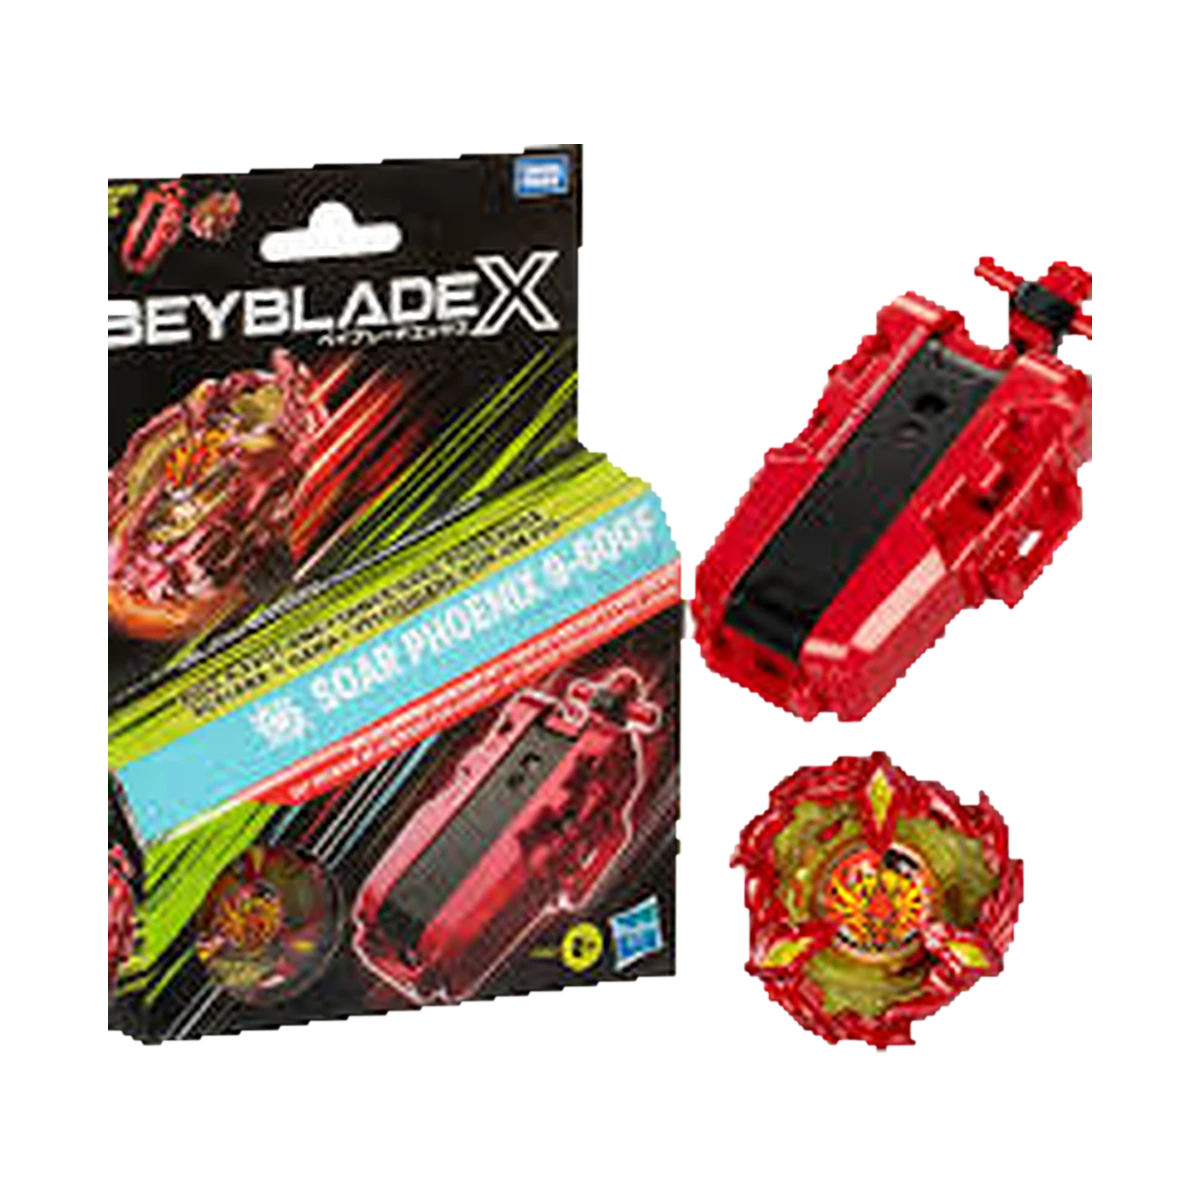
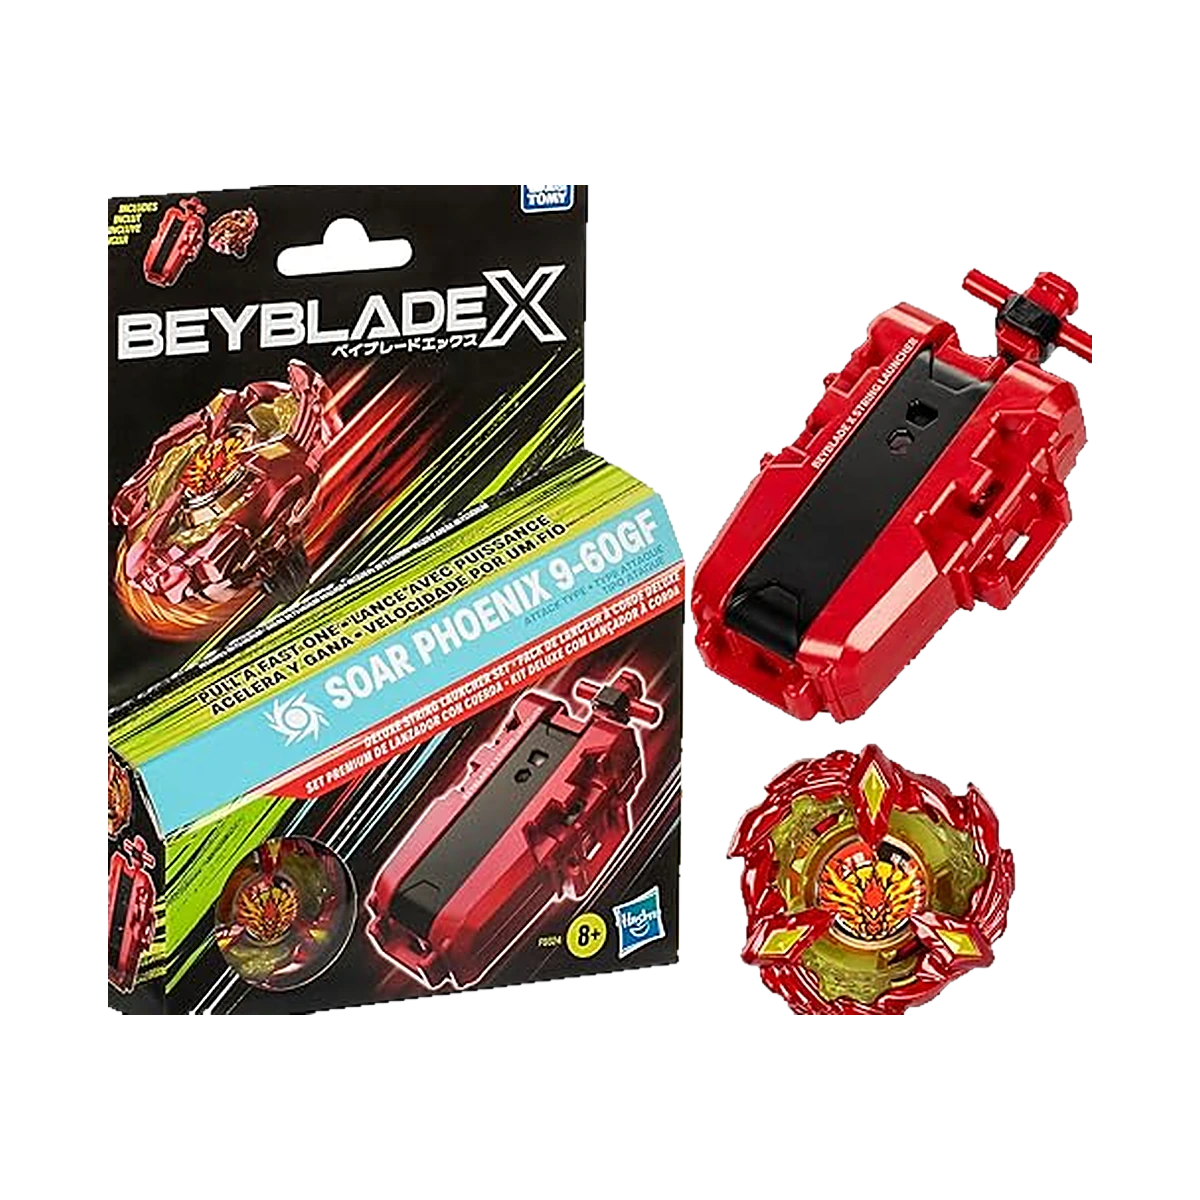
Soar Phoenix lands: 199 on the shelf at 25,90, leading the new arrivals (#60)
* Soar Phoenix lands: 199 on the shelf at 25,90, leading the new arrivals

The owner received 199 Soar Phoenix 9-60GF (red, with its launcher) on
2026-10-08. It stops being an open pre-order and goes on the shelf at
25,90 (was 32,00), tagged as a new release.

- catalog: price 2590, disponibile, availableQuantity 199, tag novita.
- migration 20261008090000 mirrors it into the live database: price,
  stock 199 (only into an empty shelf, with an inventory movement) and
  the novita tag. allow_backorder stays on.
- Homepage: a new release already on the shelf gets its own row,
  "Appena arrivati", instead of sitting under "Pre-ordini aperti" next
  to the release wait.
- Sort "novita": among the new releases, what ships now comes first
  (mock and Supabase providers alike).
- New packshot from the owner (prodotti/phoenixred.jpg): only this
  product's tile and cut-out are regenerated.
- Pinned tests follow: catalogue entry, seed open pre-order count 1 -> 0,
  the Infinity Starter migration price of its day, new-release tags.

* The homepage e2e checks the new arrivals row instead of an empty rest

Every reviewed product now has a named row, so "Tutto il resto" does not
render on the mock catalogue; the tests look for "Appena arrivati".

---------

diff --git a/src/lib/home/product-selection.ts b/src/lib/home/product-selection.ts
@@ -44,6 +44,10 @@ export const BESTSELLER_SLUGS: readonly string[] = [
  * still on pre-order, then what ships right away (single pieces, then bundles, then
  * accessories), then everything else with sold-out pieces last. Every product appears once.
  *
+ * A new release already on the shelf (owner, 2026-10-08: 199 Soar Phoenix landed) gets a row
+ * of its own, "Appena arrivati", between the best sellers and the pre-orders: it ships now, so
+ * it never sits under "Pre-ordini aperti" with the release wait beside it.
+ *
  * When none of the best sellers can be sold the hero falls back to the September order — the
  * new releases, or failing those anything on sale — rather than dealing an empty first screen.
  */
@@ -62,9 +66,12 @@ export function homepagePlan<T extends PlannedProduct>(
   const heroIsBestsellers = best.length > 0;
   const hero = heroIsBestsellers ? best : (releases.length > 0 ? releases : products.filter(onSale)).slice(0, heroLimit);
   const taken = new Set(hero.map((product) => product.slug));
-  // The new releases get a row of their own once the best sellers hold the first screen.
-  const drop = heroIsBestsellers ? releases.filter((product) => !taken.has(product.slug)) : [];
-  for (const product of drop) taken.add(product.slug);
+  // The new releases get rows of their own once the best sellers hold the first screen: what
+  // has landed, then what is still on pre-order.
+  const unseen = heroIsBestsellers ? releases.filter((product) => !taken.has(product.slug)) : [];
+  const arrivals = unseen.filter((product) => product.stock === "disponibile");
+  const drop = unseen.filter((product) => product.stock !== "disponibile");
+  for (const product of unseen) taken.add(product.slug);
   const kind = (product: T) => (product.bundleOf ? 1 : product.variant ? 2 : 0);
   const ready = products
     .filter((product) => !taken.has(product.slug) && product.stock === "disponibile")
@@ -77,6 +84,7 @@ export function homepagePlan<T extends PlannedProduct>(
     hero,
     heroIsBestsellers,
     heroIsNewRelease: !heroIsBestsellers && releases.length > 0,
+    arrivals,
     drop,
     ready,
     rest: [...others.filter(onSale), ...others.filter((product) => !onSale(product))],

diff --git a/tests/unit/preorder-storefront.test.tsx b/tests/unit/preorder-storefront.test.tsx
@@ -62,10 +62,12 @@ describe("truthful public presentation", () => {
     // BESTSELLER_SLUGS is the paid-order record rather than an impression. It used to be
     // forbidden outright, when the shop had no sales to back it.
     expect(html).toContain("I più venduti");
-    // The pre-order drop keeps its own row, under them.
+    // A new release already on the shelf gets its own row (owner, 2026-10-08), and the
+    // pre-order drop keeps its own, under them. "Tutto il resto" shows only what no named row
+    // took, which in the reviewed catalogue is nothing.
+    expect(html).toContain("Appena arrivati");
     expect(html).toContain("Pre-ordini aperti");
     expect(html).toContain("Pronti da spedire");
-    expect(html).toContain("Tutto il resto");
     // The owner took the fight animation off the homepage on 2026-09-21.
     expect(html).not.toContain("Scegli. Carica.");
     expect(html).not.toContain("Scelti per il competitivo");
@@ -105,7 +107,8 @@ describe("truthful public presentation", () => {
   });
 
   it("tells how long a pre-order may take without promising a dispatch date", () => {
-    const backorder = PRODUCTS.find((candidate) => candidate.stock === "pre-ordine" && !candidate.releasePreorder)!;
+    // Any shelf piece that runs out becomes this kind of pre-order (allow_backorder).
+    const backorder = PRODUCTS.find((candidate) => !candidate.releasePreorder && !candidate.consignment)!;
     const html = renderToStaticMarkup(<Providers><BuyPanel product={{ ...backorder, stock: "pre-ordine" }} /></Providers>);
 
     expect(html).toContain("Potrebbe arrivare tra 10/15 giorni lavorativi");

diff --git a/tests/unit/new-release-tags-migration.test.ts b/tests/unit/new-release-tags-migration.test.ts
@@ -34,17 +34,28 @@ describe("new release tags", () => {
   it("hands the tag to the newest drop, in the catalogue and in the database", () => {
     const tagged = newReleases(PRODUCTS).map((product) => product.slug);
 
-    expect(tagged).toEqual([
+    const september = [
       "cobalt-drake-4-60f",
       "mirage-clock-9-65b",
       "suppress-superion-0-70lp",
       "strike-dran-4-50ff",
       "tread-croc-tq-5-50gn",
-    ]);
-    for (const slug of tagged) expect(drop, slug).toContain(`('${slug}', 'novita')`);
+    ];
+    expect(tagged).toEqual([...september, "soar-phoenix-9-60gf"]);
+    for (const slug of september) expect(drop, slug).toContain(`('${slug}', 'novita')`);
     // The starters keep selling, they just stop leading the homepage.
     for (const slug of STARTERS) expect(drop).toContain(`'${slug}'`);
     expect(drop).toMatch(/delete from public\.product_tags[\s\S]+?'novita'::public\.promo_tag/);
+  });
+
+  // Owner, 2026-10-08: 199 Soar Phoenix landed and went straight into the new releases.
+  it("tags Soar Phoenix new when its shipment lands, in the database too", () => {
+    const restock = readFileSync(join(process.cwd(), "supabase/migrations/20261008090000_soar_phoenix_restock.sql"), "utf8")
+      .replaceAll("\r\n", "\n")
+      .toLowerCase();
+    expect(restock).toMatch(/insert into public\.product_tags[\s\S]+?'novita'::public\.promo_tag[\s\S]+?'soar-phoenix-9-60gf'/);
+    expect(restock).toContain("on conflict (product_id, tag) do nothing");
+    expect(restock).not.toMatch(/delete from public\.product_tags/);
   });
 
   it("only adds tags inside one transaction", () => {

diff --git a/tests/unit/homepage-plan.test.ts b/tests/unit/homepage-plan.test.ts
@@ -52,14 +52,26 @@ describe("homepage plan", () => {
 
     it("still shows every product exactly once", () => {
       const plan = homepagePlan(catalogue, 4, best);
-      const shown = [...plan.hero, ...plan.drop, ...plan.ready, ...plan.rest].map((product) => product.slug);
+      const shown = [...plan.hero, ...plan.arrivals, ...plan.drop, ...plan.ready, ...plan.rest].map((product) => product.slug);
       expect(shown.sort()).toEqual(slugs(catalogue).sort());
+    });
+
+    // Owner, 2026-10-08: 199 Soar Phoenix landed and went into the new releases.
+    it("gives a new release already on the shelf its own row, never the pre-order one", () => {
+      const landed = [...catalogue, item("phoenix", "disponibile", { tags: ["novita"] })];
+      const plan = homepagePlan(landed, 4, best);
+      expect(slugs(plan.arrivals)).toEqual(["phoenix"]);
+      expect(slugs(plan.drop)).toEqual(["drake", "clock", "dran", "croc"]);
+      expect(slugs(plan.ready)).not.toContain("phoenix");
+      const shown = [...plan.hero, ...plan.arrivals, ...plan.drop, ...plan.ready, ...plan.rest].map((product) => product.slug);
+      expect(shown.sort()).toEqual(slugs(landed).sort());
     });
 
     it("falls back to the September order when no best seller can be sold", () => {
       const plan = homepagePlan(catalogue, 4, ["superion", "not-in-the-catalogue"]);
       expect(plan.heroIsBestsellers).toBe(false);
       expect(slugs(plan.hero)).toEqual(["drake", "clock", "dran", "croc"]);
+      expect(plan.arrivals).toEqual([]);
       expect(plan.drop).toEqual([]);
     });
   });

diff --git a/src/data/catalog.ts b/src/data/catalog.ts
@@ -302,7 +302,7 @@ export const PRODUCTS: readonly Product[] = [
   {
     slug: "soar-phoenix-9-60gf", name: "Soar Phoenix 9-60GF", tagline: "Upper attack. Colpisci verso l'alto.",
     description: "Soar Phoenix 9-60GF è una trottola d'attacco a tre lame che salgono verso l'alto per un Upper Attack capace di sollevare l'avversario, unito allo Smash che lo spinge fuori arena. Tra le blade più pesanti della serie. Lo starter include il lanciatore a corda.",
-    price: eur(3200), category: "beyblade-x", bladeType: "attacco", stock: "pre-ordine", tags: [], rating: 0, reviewCount: 0,
+    price: eur(2590), category: "beyblade-x", bladeType: "attacco", stock: "disponibile", availableQuantity: 199, tags: ["novita"], rating: 0, reviewCount: 0,
     images: productImages["soar-phoenix-9-60gf"],
     specs: [{ label: "Tipo", value: "Attacco" }, { label: "Produttore", value: "Hasbro (prodotto originale)" }, { label: "Sistema", value: "Beyblade X" }, { label: "Codice", value: "9-60GF" }, { label: "Componenti", value: "1 trottola, 1 lanciatore a corda" }, { label: "Materiale", value: "Plastica e metallo" }],
     features: [{ title: "Upper Attack", description: "Le tre lame sollevano l'avversario da terra" }, { title: "Peso elevato", description: "Massa che domina i confronti d'attacco" }, { title: "Starter completo", description: "Include il lanciatore a corda" }, { title: "Compatibile Beyblade X", description: "Blade, Ratchet e Bit intercambiabili con la serie" }],

diff --git a/src/app/(storefront)/page.tsx b/src/app/(storefront)/page.tsx
@@ -68,8 +68,8 @@ export default async function HomePage() {
     );
   }
 
-  // The owner's order (2026-10-05): the best sellers on the first screen, the pre-order drop
-  // right under them, then what ships now, then everything else. It used to open on the drop
+  // The owner's order (2026-10-05): the best sellers on the first screen, the new arrivals and
+  // the pre-order drop right under them, then what ships now, then everything else. It used to open on the drop
   // (2026-09-21); a shopper who arrives wanting what everyone buys now finds it first.
   // Clean on purpose: no fight animation, no banner in between.
   return (
@@ -89,6 +89,7 @@ export default async function HomePage() {
             }
           : {})}
       />
+      <ProductShelf testId="new-arrivals" kicker="Nuovi arrivi" title="Appena arrivati" note={STANDARD_DELIVERY} products={plan.arrivals} />
       <ProductShelf testId="preorder-drop" kicker="Nuove uscite" title="Pre-ordini aperti" note={RELEASE_DELIVERY} products={plan.drop} />
       <ProductShelf testId="ready-to-ship" kicker="Disponibili subito" title="Pronti da spedire" note={STANDARD_DELIVERY} products={plan.ready} />
       <Arsenal products={plan.rest} title="Tutto il resto" kicker="Catalogo" />

diff --git a/tests/e2e/home.spec.ts b/tests/e2e/home.spec.ts
@@ -20,7 +20,7 @@ const VIEWPORTS = [
 
 /** Every card of the storefront: an item sold in several colours (the deck case) is one card. */
 const STOREFRONT_CARDS = oneCardPerFamily(STOREFRONT_CATALOGUE);
-/** The owner's order (2026-10-05): the best sellers, the pre-order drop, what ships now, the rest. */
+/** The owner's order (2026-10-05): the best sellers, the new arrivals, the pre-order drop, what ships now, the rest. */
 const PLAN = homepagePlan(STOREFRONT_CARDS, 5);
 const slugs = (products: readonly { readonly slug: string }[]) => products.map((product) => product.slug);
 
@@ -44,6 +44,7 @@ test.describe("public homepage", () => {
     const cardSlugs = (testId: string) =>
       page.getByTestId(testId).getByTestId("product-card").evaluateAll((cards) => cards.map((card) => card.getAttribute("data-slug")));
     expect(await cardSlugs("hero-products")).toEqual(slugs(PLAN.hero));
+    expect(await cardSlugs("new-arrivals")).toEqual(slugs(PLAN.arrivals));
     expect(await cardSlugs("preorder-drop")).toEqual(slugs(PLAN.drop));
     expect(await cardSlugs("ready-to-ship")).toEqual(slugs(PLAN.ready));
     expect(await cardSlugs("arsenal-grid")).toEqual(slugs(PLAN.rest));

diff --git a/tests/unit/preorder-catalog.test.ts b/tests/unit/preorder-catalog.test.ts
@@ -46,7 +46,7 @@ describe("reviewed catalogue", () => {
       { slug: "suppress-superion-0-70lp", price: 2500, stock: "pre-ordine", availableQuantity: 5, rating: 0, reviewCount: 0 },
       { slug: "strike-dran-4-50ff", price: 2300, stock: "pre-ordine", availableQuantity: 9, rating: 0, reviewCount: 0 },
       { slug: "tread-croc-tq-5-50gn", price: 2500, stock: "pre-ordine", availableQuantity: 9, rating: 0, reviewCount: 0 },
-      { slug: "soar-phoenix-9-60gf", price: 3200, stock: "pre-ordine", availableQuantity: undefined, rating: 0, reviewCount: 0 },
+      { slug: "soar-phoenix-9-60gf", price: 2590, stock: "disponibile", availableQuantity: 199, rating: 0, reviewCount: 0 },
       // Takara Tomy on consignment from the partner, two of each (owner, 2026-10-07).
       { slug: "cx-00-evangelion-deck-set", price: 13500, stock: "disponibile", availableQuantity: 2, rating: 0, reviewCount: 0 },
       { slug: "ux-00-glory-valkyrie-lf", price: 20500, stock: "disponibile", availableQuantity: 2, rating: 0, reviewCount: 0 },

diff --git a/tests/e2e/preorder-truthfulness.spec.ts b/tests/e2e/preorder-truthfulness.spec.ts
@@ -37,7 +37,9 @@ test.describe("truthful preorder storefront", () => {
     await expect(page.getByRole("heading", { name: "I più venduti", exact: true })).toHaveCount(1);
     await expect(page.getByRole("heading", { name: "Pre-ordini aperti", exact: true })).toBeVisible();
     await expect(page.getByRole("heading", { name: "Pronti da spedire" })).toBeVisible();
-    await expect(page.getByRole("heading", { name: "Tutto il resto" })).toBeVisible();
+    // A new release on the shelf has its own row (owner, 2026-10-08); "Tutto il resto" holds only
+    // what no named row took, which in the reviewed catalogue is nothing.
+    await expect(page.getByRole("heading", { name: "Appena arrivati" })).toBeVisible();
     await expect(page.getByTestId("product-carousel")).toHaveCount(0);
     // "I più venduti" is truthful only while it deals the sales record and nothing else: the
     // label was forbidden outright when the shop had no sales to back it.

diff --git a/src/lib/commerce/mock-provider.ts b/src/lib/commerce/mock-provider.ts
@@ -40,7 +40,11 @@ const byPopularity = (a: Product, b: Product) => b.reviewCount - a.reviewCount;
 
 const SORTERS: Record<SortKey, (a: Product, b: Product) => number> = {
   popolari: byPopularity,
-  novita: (a, b) => Number(b.tags.includes("novita")) - Number(a.tags.includes("novita")) || byPopularity(a, b),
+  // Among the new releases, what ships now leads what is still on pre-order (owner, 2026-10-08).
+  novita: (a, b) =>
+    Number(b.tags.includes("novita")) - Number(a.tags.includes("novita")) ||
+    Number(b.stock === "disponibile") - Number(a.stock === "disponibile") ||
+    byPopularity(a, b),
   "prezzo-asc": (a, b) => a.price.amount - b.price.amount || byPopularity(a, b),
   "prezzo-desc": (a, b) => b.price.amount - a.price.amount || byPopularity(a, b),
   nome: (a, b) => a.name.localeCompare(b.name, "it"),

diff --git a/tests/e2e/shop.spec.ts b/tests/e2e/shop.spec.ts
@@ -16,7 +16,9 @@ test.describe("home", () => {
     await expect(page.getByRole("heading", { name: "Scegli. Carica. Lancia." })).toHaveCount(0);
     await expect(page.getByTestId("arena")).toHaveCount(0);
     await expect(page.getByRole("heading", { name: "Pronti da spedire" })).toBeVisible();
-    await expect(page.getByRole("heading", { name: "Tutto il resto" })).toBeVisible();
+    // A new release on the shelf has its own row (owner, 2026-10-08); "Tutto il resto" holds only
+    // what no named row took, which in the reviewed catalogue is nothing.
+    await expect(page.getByRole("heading", { name: "Appena arrivati" })).toBeVisible();
     await expect(page.getByTestId("product-carousel")).toHaveCount(0);
     await expect(page.getByTestId("product-card").first()).toBeVisible();
   });

diff --git a/src/lib/commerce/supabase-provider.ts b/src/lib/commerce/supabase-provider.ts
@@ -152,6 +152,7 @@ const SORTERS: Record<SortKey, (left: Product, right: Product) => number> = {
   popolari: (left, right) => right.reviewCount - left.reviewCount,
   novita: (left, right) =>
     Number(right.tags.includes("novita")) - Number(left.tags.includes("novita"))
+    || Number(right.stock === "disponibile") - Number(left.stock === "disponibile")
     || right.reviewCount - left.reviewCount,
   "prezzo-asc": (left, right) => left.price.amount - right.price.amount,
   "prezzo-desc": (left, right) => right.price.amount - left.price.amount,
